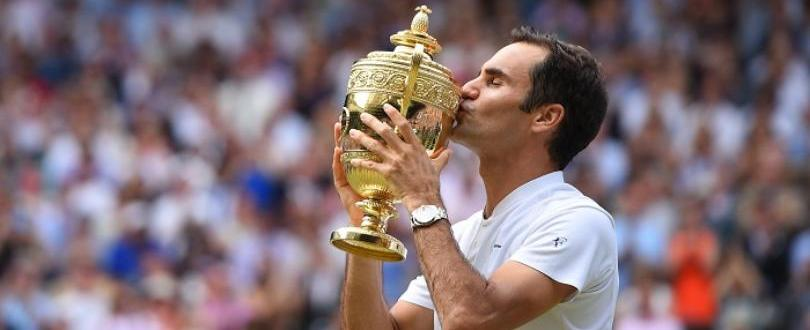
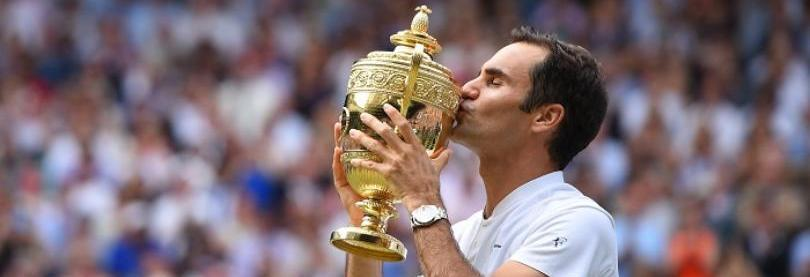
stretch opening slides (fed)

diff --git a/style/montestyle.css b/style/montestyle.css
@@ -480,19 +480,46 @@ a[href^=tel] {
   display: flex;
   justify-content: center;
 }
-
+#slideshowq {
+  width: 100%;
+}
 /* Hide the images by default */
 .mySlides {
   display: none;
   overflow: hidden;
   width: inherit;
 }
-.mySlides > img {
+.slee1 {
+  height: 431px;
+  background-image: url(../image/sharp3.jpg);
+  background-size: cover;
+  -webkit-filter: brightness(0.7);
+  filter: brightness(0.7);
+      background-position: 50% 50%;
+}
+.slee2 {
+  height: 431px;
+  background-image: url(../image/sharp2.jpg);
+  background-size: cover;
+  -webkit-filter: brightness(0.7);
+  filter: brightness(0.7);
+      background-position: 50% 50%;
+}
+.slee3 {
+  height: 431px;
+  background-image: url(../image/sharp1.jpg);
+  background-size: cover;
+  -webkit-filter: brightness(0.7);
+  filter: brightness(0.7);
+      background-position: 50% 50%;
+}
+/* .mySlides > img {
   width: 100%;
+  background-size: cover;
   height: 431px;
   -webkit-filter: brightness(0.7);
   filter: brightness(0.7);
-}
+} */
 
 /* Next & previous buttons */
 .prev, .next {

diff --git a/index.html b/index.html
@@ -527,15 +527,18 @@
 	<div  class="slideshow-container">
 		<div id='slideshowq'>
 			<div class="mySlides slide1 fades">
-				<img src="image/sharp3.jpg">
+				<div class="slee1"></div>
+				<!-- <img src="image/sharp3.jpg"> -->
 			</div>
 
 			<div class="mySlides slide2 fades">
-				<img src="image/sharp2.jpg">
+				<div class="slee2"></div>
+				<!-- <img src="image/sharp2.jpg"> -->
 			</div>
 
 			<div class="mySlides slide3 fades">
-				<img src="image/sharp1.jpg">
+				<div class="slee3"></div>
+				<!-- <img src="image/sharp1.jpg"> -->
 			</div>
 		</div>
 
